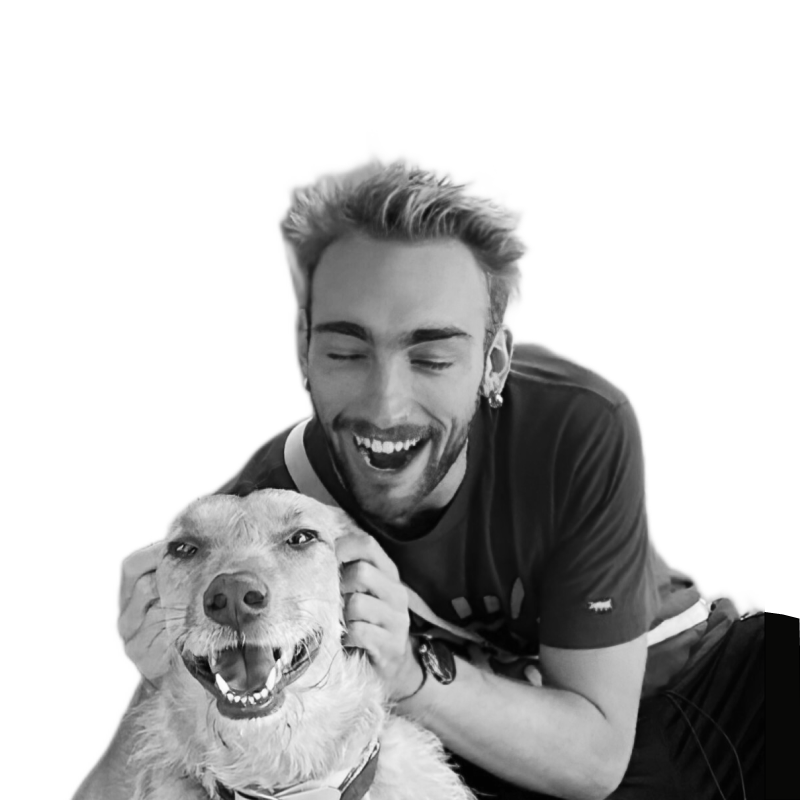
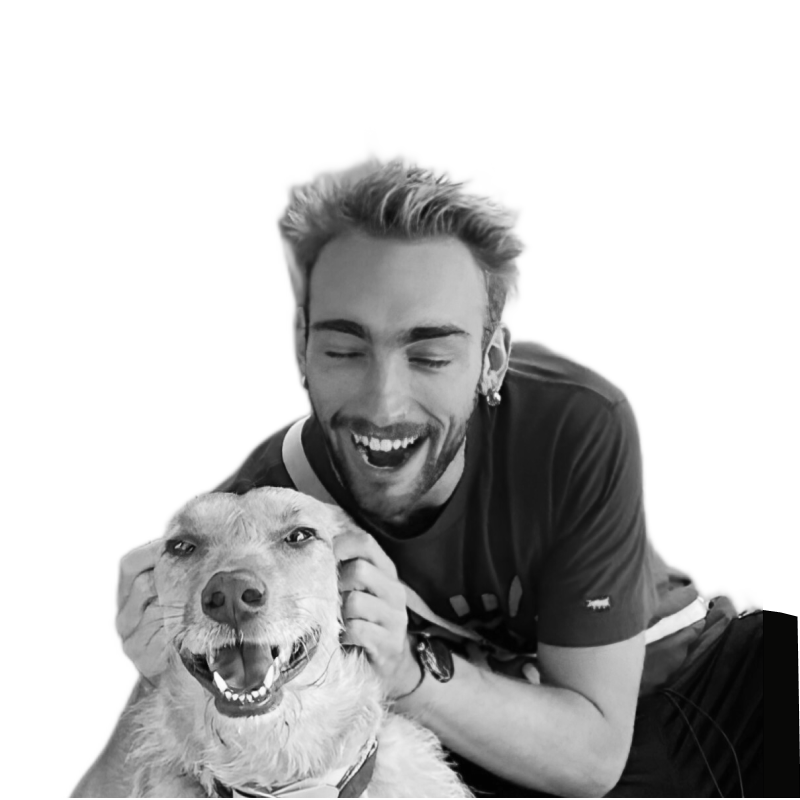
profile image adjusted

diff --git a/css/style.css b/css/style.css
@@ -439,7 +439,7 @@ input[type='checkbox'] {
 
 img.top-logo {
     width: 180px;
-    margin: 12vh 0 1vh 0;
+    margin: 18vh 0 1vh 0;
 	border-radius: 50%;
     background-color: var(--secondary);
 	/* box-shadow: 0 2px 14px 0px #444; */
@@ -1022,7 +1022,7 @@ footer .personal-footer {
     img.top-logo
     {
         width: 15vw;
-        margin: 12vh 0 1vh 0;
+        margin: 15vh 0 1vh 0;
     }
     .intro-page {
         height: 100vh;
